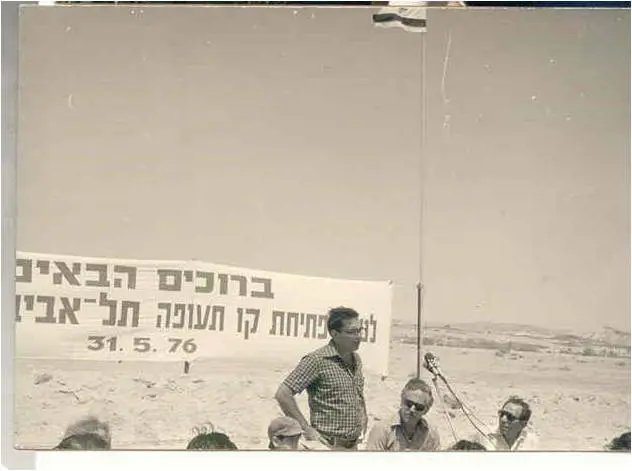
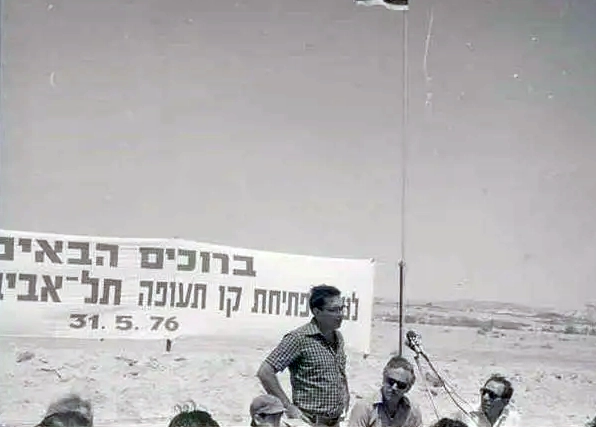
Airport photo captioned with the 1976 route opening date

diff --git a/images/gallery/gallery-data.js b/images/gallery/gallery-data.js
@@ -17,7 +17,7 @@ window.galleryPhotos = [
   { file: "shai-greenhouse-1999.webp", caption: "שי בחממה, 1999" },
   { file: "shai-jubilee-opening-1.webp", caption: "שי בפתיחת אירועי היובל" },
   { file: "shai-jubilee-opening-2.webp", caption: "שי בפתיחת אירועי היובל" },
-  { file: "airport-opening.webp", caption: "פתיחת שדה התעופה" },
+  { file: "airport-opening.webp", caption: "פתיחת קו התעופה לתל אביב, 31.5.1976" },
   { file: "onion-loading.webp", caption: "העמסת בצל לאחר הקינוב" },
   { file: "shai-dudu-greenhouse.webp", caption: "שי ודודו מנקים חממה" },
   { file: "shai-desert-bloom.webp", caption: "שי בפריחה מדברית" },

diff --git a/gallery.html b/gallery.html
@@ -73,7 +73,7 @@
     <div class="photog reveal-stagger" id="galleryGrid"></div>
   </div>
 
-  <script src="images/gallery/gallery-data.js?v=39"></script>
+  <script src="images/gallery/gallery-data.js?v=40"></script>
   <script>
     (function(){
       var photos = window.galleryPhotos || [];
